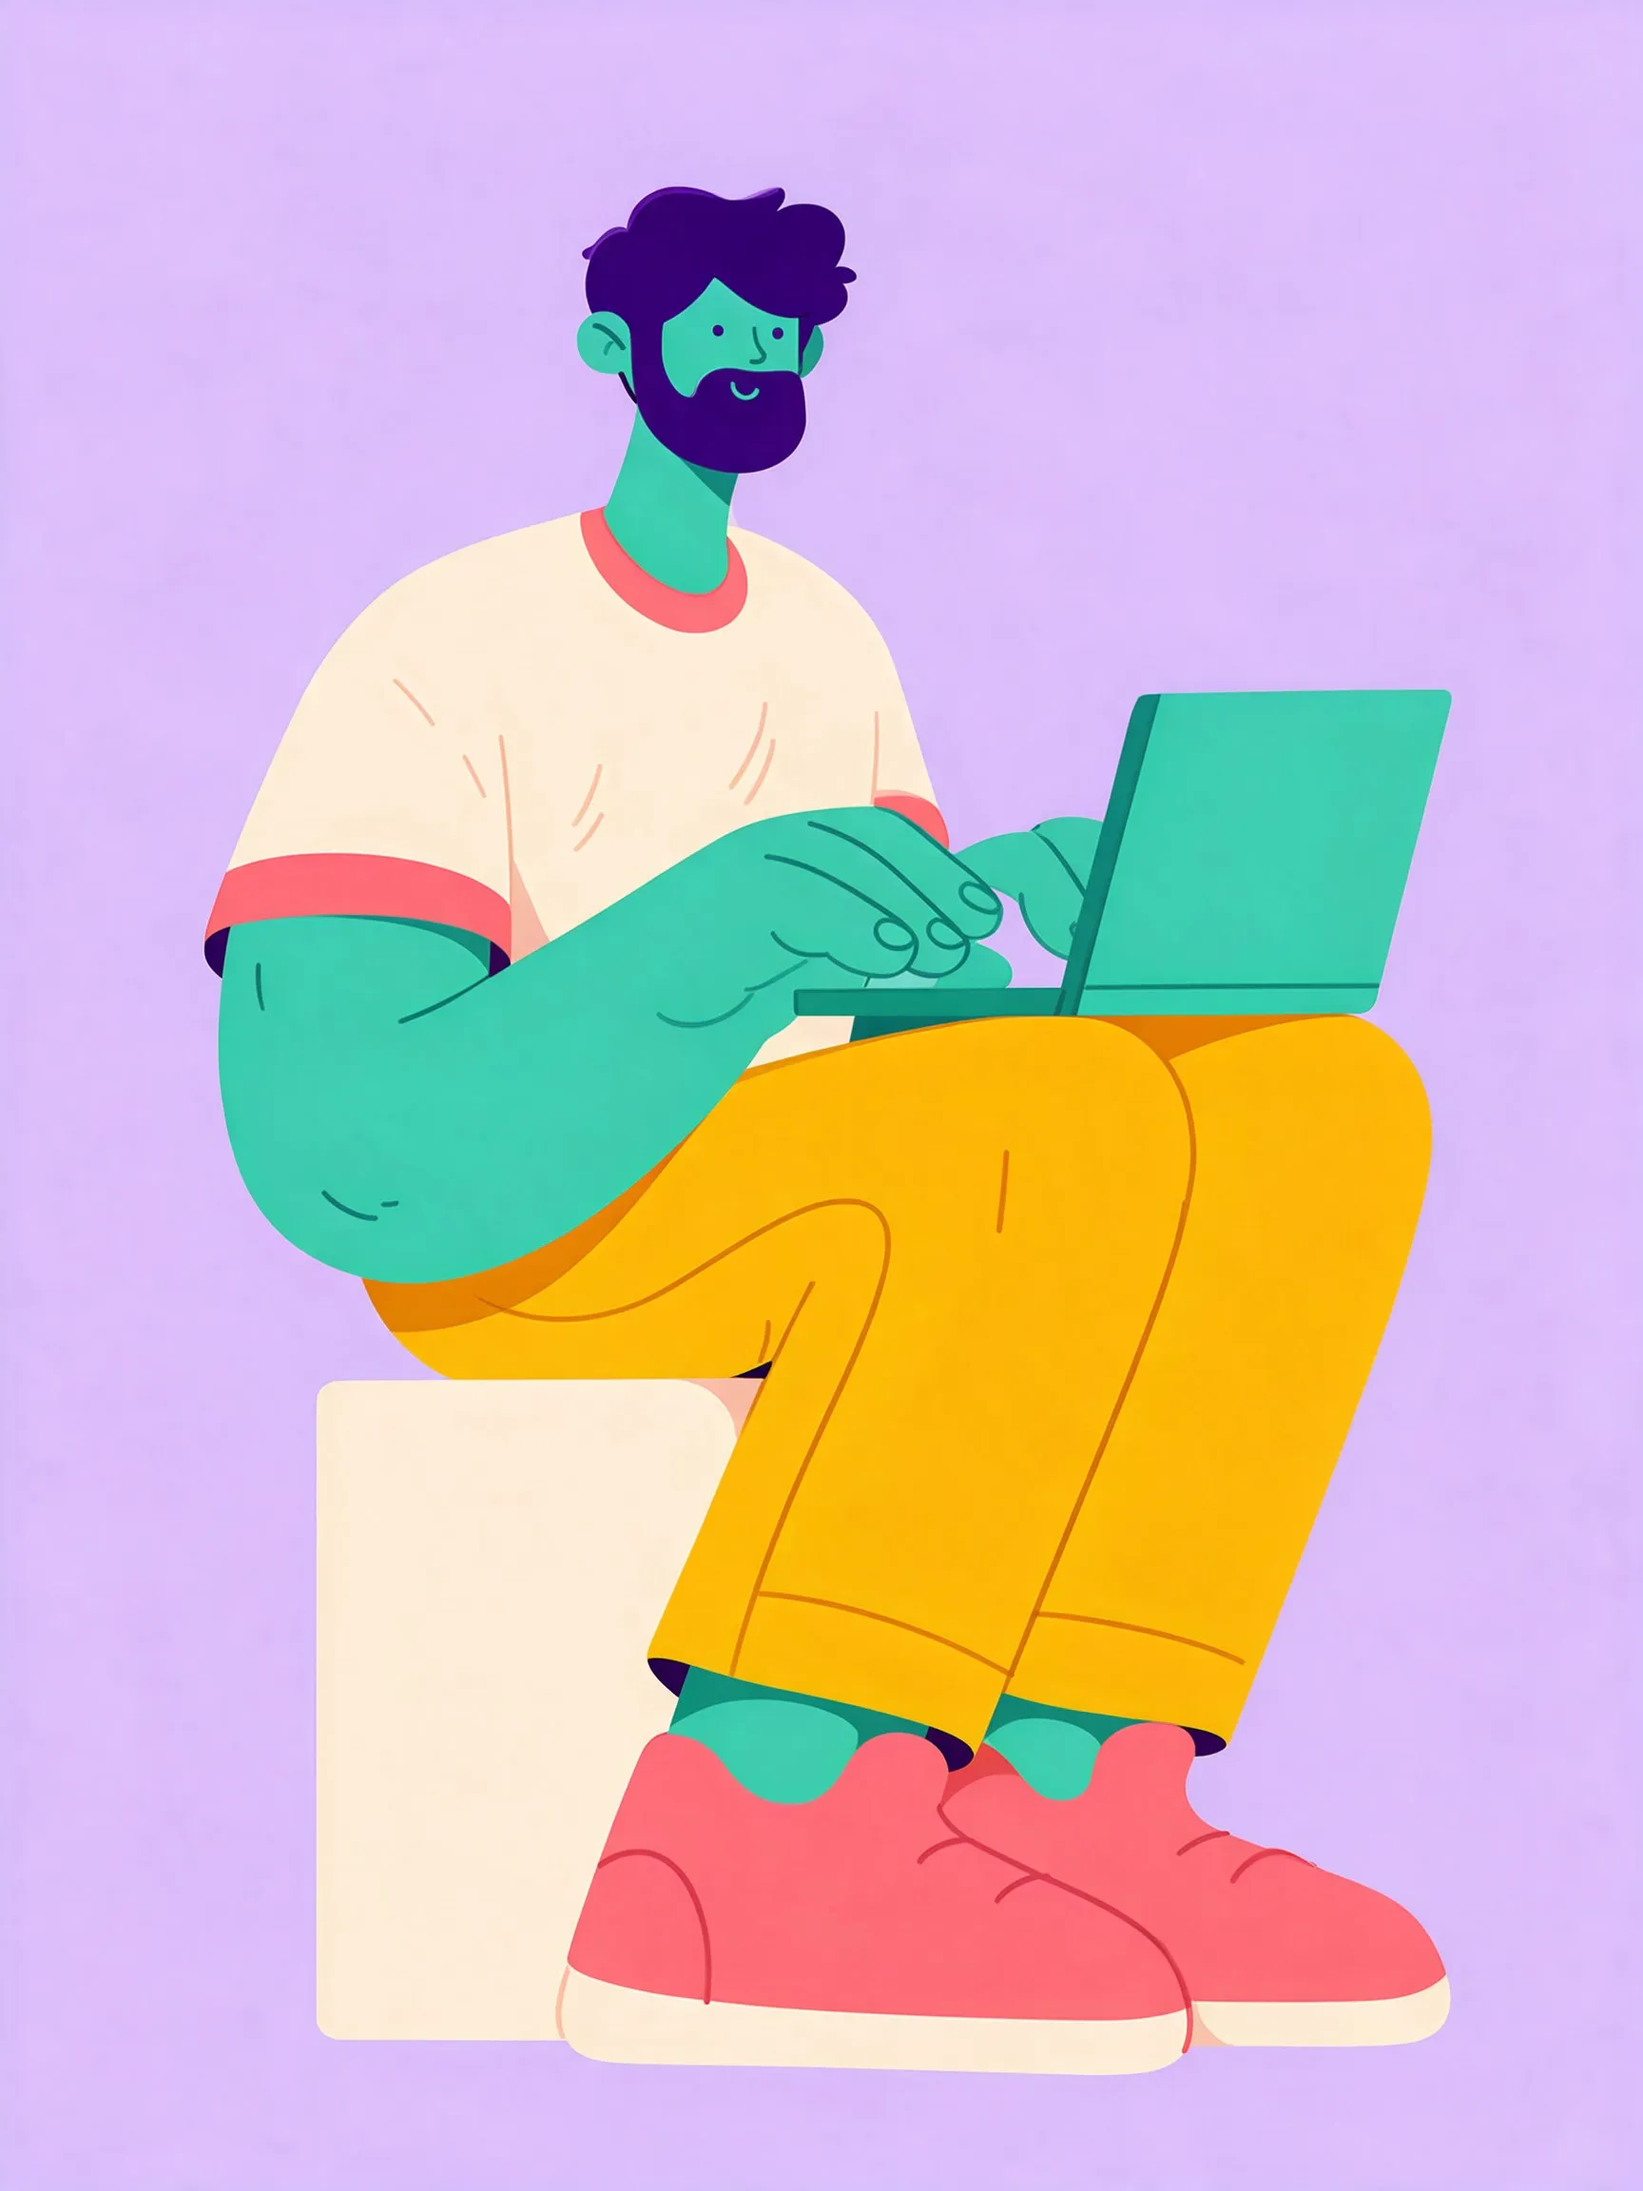
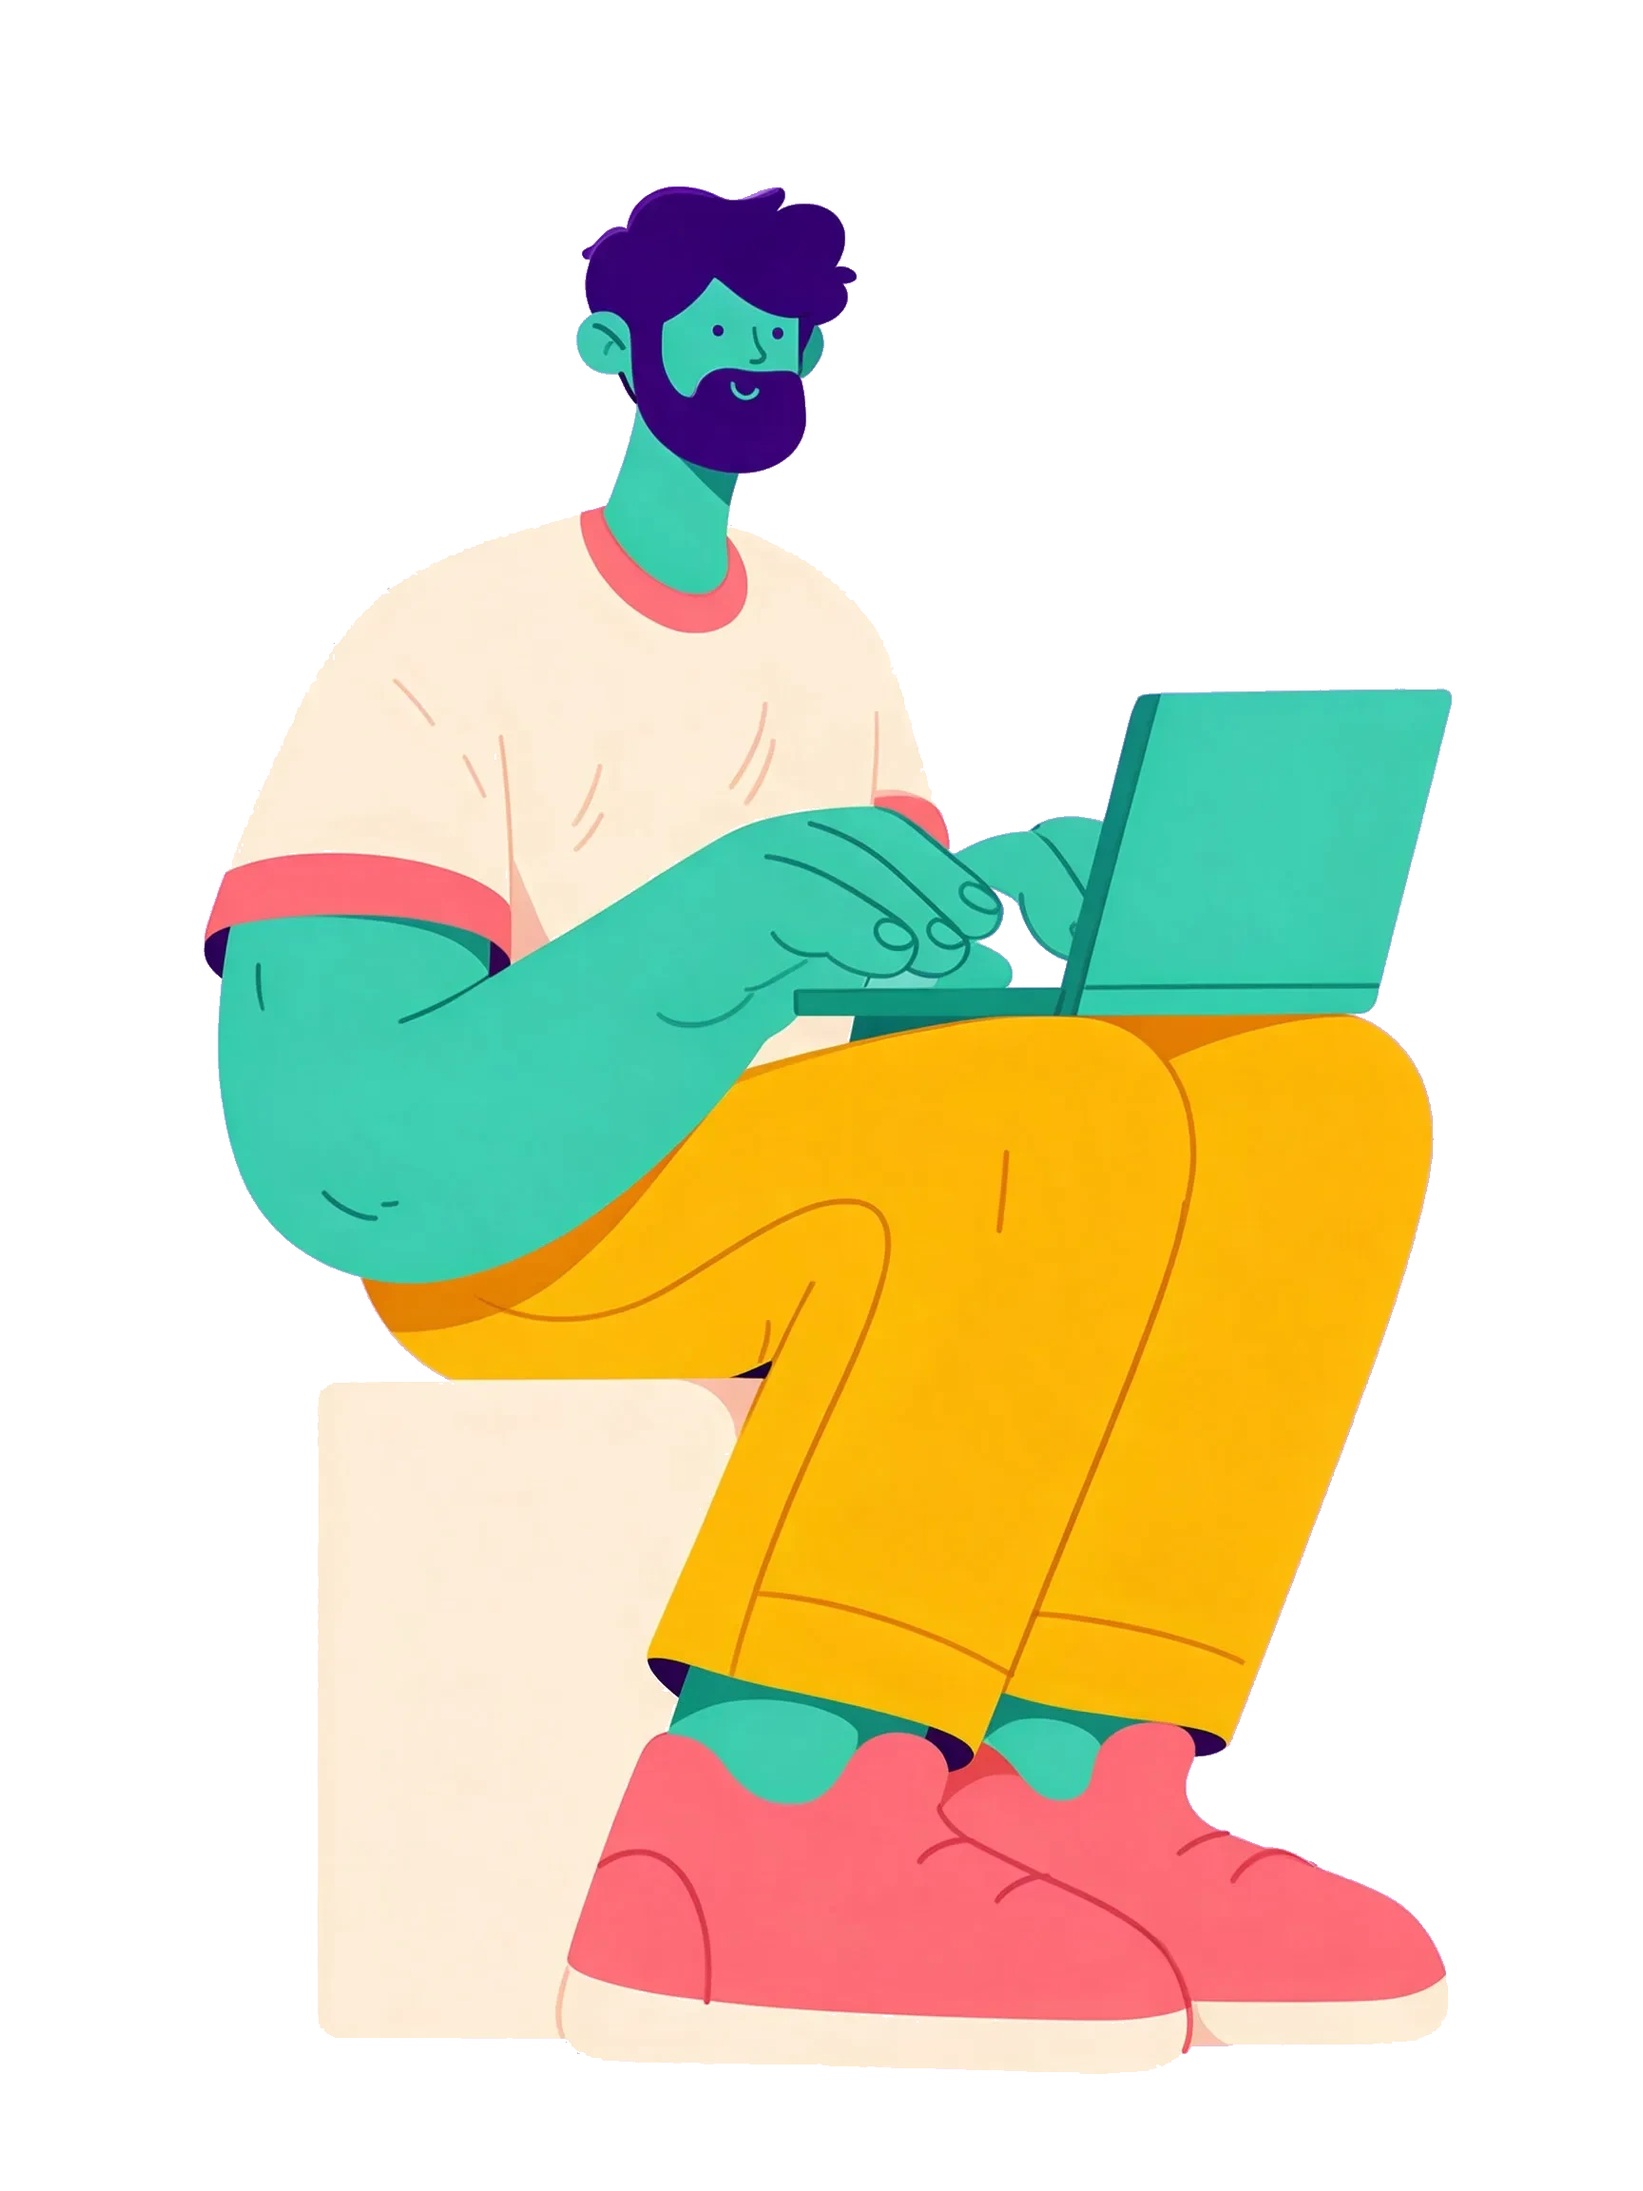
fix(blog): eShow verticales sin rectángulo de fondo en staging
- WebP con alpha (lavanda plana eliminada) en cabecera, fig1 y fig2
- Hueco lavanda #eaddff; personaje ~88% alto, object-contain centrado
- Script scripts/eshow-remove-lavender-bg.py para regenerar assets

diff --git a/app/blog/[...slug]/page.tsx b/app/blog/[...slug]/page.tsx
@@ -60,6 +60,8 @@ import {
   ESHOW_MADRID_2026_H1,
   ESHOW_MADRID_2026_META,
   ESHOW_MADRID_2026_AUTHOR_NAME,
+  ESHOW_MADRID_2026_FAN_IMAGE_HEIGHT,
+  ESHOW_MADRID_2026_FAN_IMAGE_WIDTH,
   ESHOW_MADRID_2026_SLUG,
   ESHOW_MADRID_2026_TITLE,
   GOOGLE_MERCHANT_CENTER_H1,
@@ -337,18 +339,30 @@ export default async function BlogPostPage({ params }: BlogPostPageProps) {
               <div
                 className={
                   isEshow
-                    ? 'relative flex w-full h-64 md:h-80 lg:h-96 items-center justify-center rounded-2xl overflow-hidden bg-[#EADDFF] p-8'
+                    ? 'relative flex w-full h-64 md:h-80 lg:h-96 items-center justify-center rounded-2xl overflow-hidden bg-[#EADDFF] px-3'
                     : 'relative w-full h-64 md:h-80 lg:h-96 rounded-2xl overflow-hidden'
                 }
               >
-                <Image
-                  src={post.featured_media_url}
-                  alt={resolveBlogCoverAlt(post.slug, post.featured_media_alt || post.title.rendered)}
-                  fill
-                  className="object-contain object-center p-4"
-                  sizes={BLOG_POST_FEATURED_SIZES}
-                  priority
-                />
+                {isEshow ? (
+                  <Image
+                    src={post.featured_media_url}
+                    alt={resolveBlogCoverAlt(post.slug, post.featured_media_alt || post.title.rendered)}
+                    width={ESHOW_MADRID_2026_FAN_IMAGE_WIDTH}
+                    height={ESHOW_MADRID_2026_FAN_IMAGE_HEIGHT}
+                    className="max-h-[88%] max-w-full h-auto w-auto object-contain object-center"
+                    sizes={BLOG_POST_FEATURED_SIZES}
+                    priority
+                  />
+                ) : (
+                  <Image
+                    src={post.featured_media_url}
+                    alt={resolveBlogCoverAlt(post.slug, post.featured_media_alt || post.title.rendered)}
+                    fill
+                    className="object-contain object-center p-4"
+                    sizes={BLOG_POST_FEATURED_SIZES}
+                    priority
+                  />
+                )}
               </div>
             )}
           </div>

diff --git a/app/blog/eshow-article.module.css b/app/blog/eshow-article.module.css
@@ -2,18 +2,21 @@
   display: flex;
   align-items: center;
   justify-content: center;
+  box-sizing: border-box;
   margin: 2rem 0;
-  padding: 2rem;
+  padding: 0 1.25rem;
   border-radius: 1rem;
   background-color: #eaddff;
-  min-height: 16rem;
+  height: clamp(18rem, 62vw, 36rem);
+  min-height: 18rem;
 }
 
 .root :global(.eshow-design-figure img.eshow-design-image) {
   display: block;
-  width: 100%;
-  height: auto;
-  max-height: 30rem;
+  width: auto;
+  max-width: 100%;
+  height: 88%;
+  max-height: 88%;
   margin: 0 auto;
   object-fit: contain;
   object-position: center;

diff --git a/lib/eshow-madrid-2026.ts b/lib/eshow-madrid-2026.ts
@@ -34,7 +34,7 @@ export const ESHOW_MADRID_2026_ABOUT_NAME = 'E-SHOW Madrid 2026';
 export const ESHOW_MADRID_2026_DATE_PUBLISHED_PROVISIONAL =
   '2026-10-07T00:00:00+02:00';
 
-/** Ilustraciones provisionales de Diseño (fans 3:4 sobre lavanda, object-contain). */
+/** Ilustraciones provisionales de Diseño (3:4, fondo lavanda transparente en WebP, object-contain ~88% del hueco). */
 export const ESHOW_MADRID_2026_CABECERA_SRC =
   '/images/blog/eshow-madrid-2026-cabecera.webp';
 export const ESHOW_MADRID_2026_FEATURED_SRC = ESHOW_MADRID_2026_CABECERA_SRC;

diff --git a/scripts/eshow-remove-lavender-bg.py b/scripts/eshow-remove-lavender-bg.py
@@ -1,0 +1,67 @@
+#!/usr/bin/env python3
+"""Make eShow vertical WebP assets transparent where the flat lavender fill shows."""
+from __future__ import annotations
+
+import math
+import sys
+from pathlib import Path
+
+from PIL import Image
+
+# Box fill in CSS (#eaddff) — keyed pixels become transparent so only the character shows.
+BOX_RGB = (234, 217, 255)
+TOLERANCE = 42
+
+
+def corner_bg_rgb(im: Image.Image) -> tuple[int, int, int]:
+    w, h = im.size
+    pts = [(0, 0), (w - 1, 0), (0, h - 1), (w - 1, h - 1)]
+    rs, gs, bs = [], [], []
+    for x, y in pts:
+        r, g, b = im.convert("RGB").getpixel((x, y))
+        rs.append(r)
+        gs.append(g)
+        bs.append(b)
+    return (sum(rs) // 4, sum(gs) // 4, sum(bs) // 4)
+
+
+def dist(a: tuple[int, int, int], b: tuple[int, int, int]) -> float:
+    return math.sqrt(sum((x - y) ** 2 for x, y in zip(a, b)))
+
+
+def key_to_alpha(path: Path, out: Path) -> None:
+    im = Image.open(path).convert("RGBA")
+    bg = corner_bg_rgb(im)
+    px = im.load()
+    w, h = im.size
+    for y in range(h):
+        for x in range(w):
+            r, g, b, a = px[x, y]
+            if a == 0:
+                continue
+            rgb = (r, g, b)
+            if dist(rgb, bg) <= TOLERANCE or dist(rgb, BOX_RGB) <= TOLERANCE:
+                px[x, y] = (r, g, b, 0)
+    out.parent.mkdir(parents=True, exist_ok=True)
+    im.save(out, "WEBP", lossless=False, quality=92, method=6)
+
+
+def main() -> int:
+    root = Path(__file__).resolve().parents[1] / "public" / "images" / "blog"
+    names = [
+        "eshow-madrid-2026-cabecera.webp",
+        "eshow-madrid-2026-fig1.webp",
+        "eshow-madrid-2026-programa.webp",
+    ]
+    for name in names:
+        src = root / name
+        if not src.exists():
+            print(f"missing {src}", file=sys.stderr)
+            return 1
+        key_to_alpha(src, src)
+        print(f"keyed {src}")
+    return 0
+
+
+if __name__ == "__main__":
+    raise SystemExit(main())
